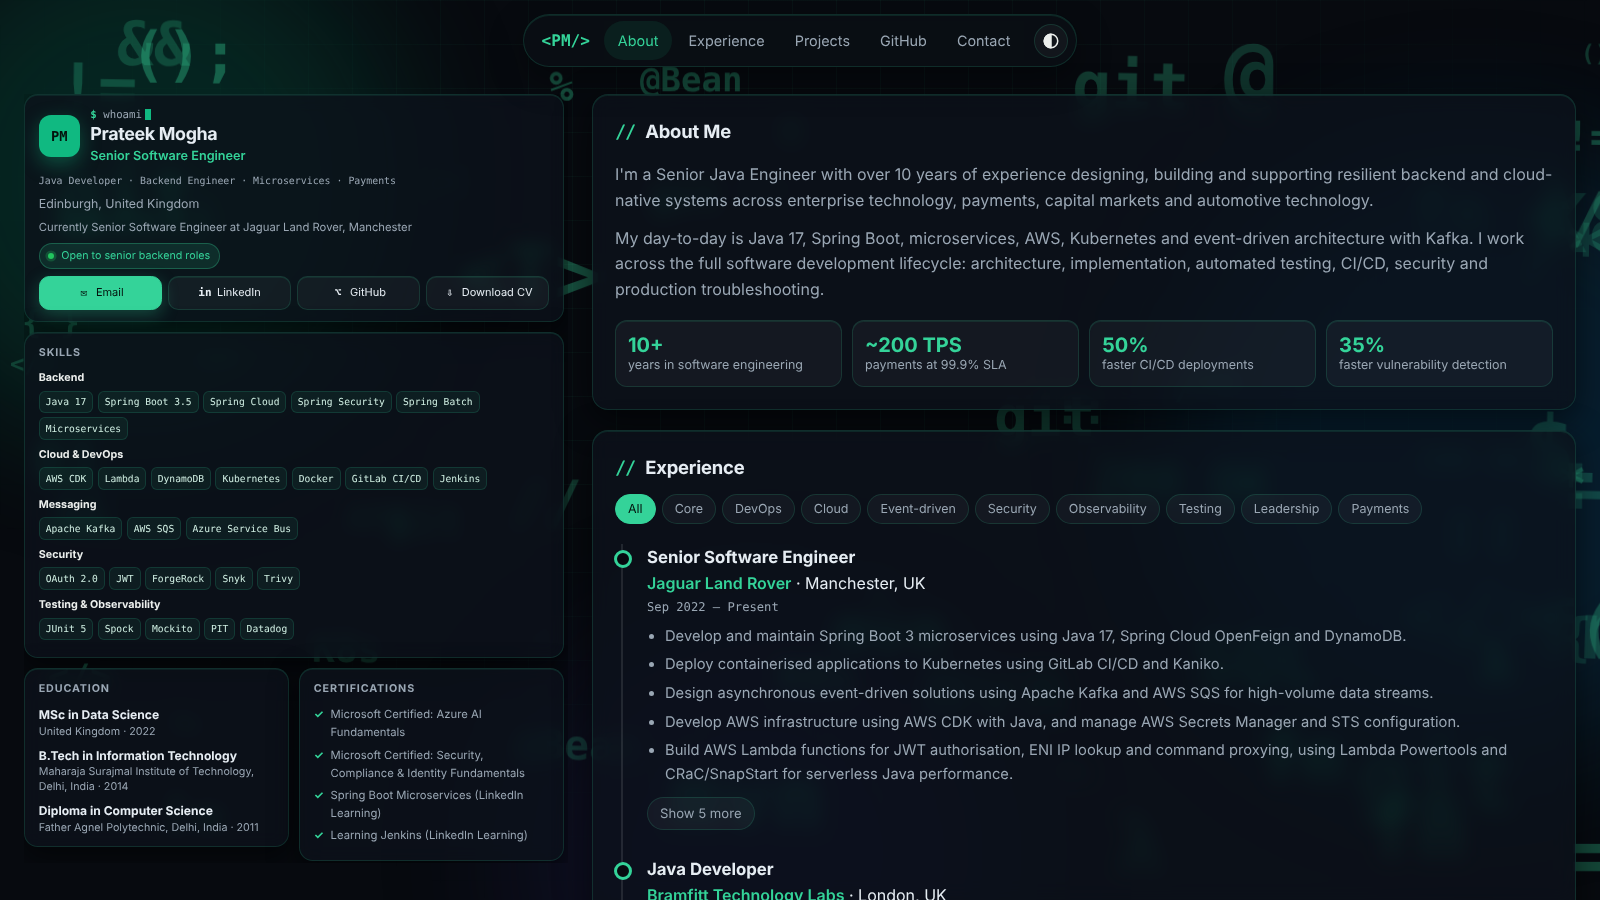
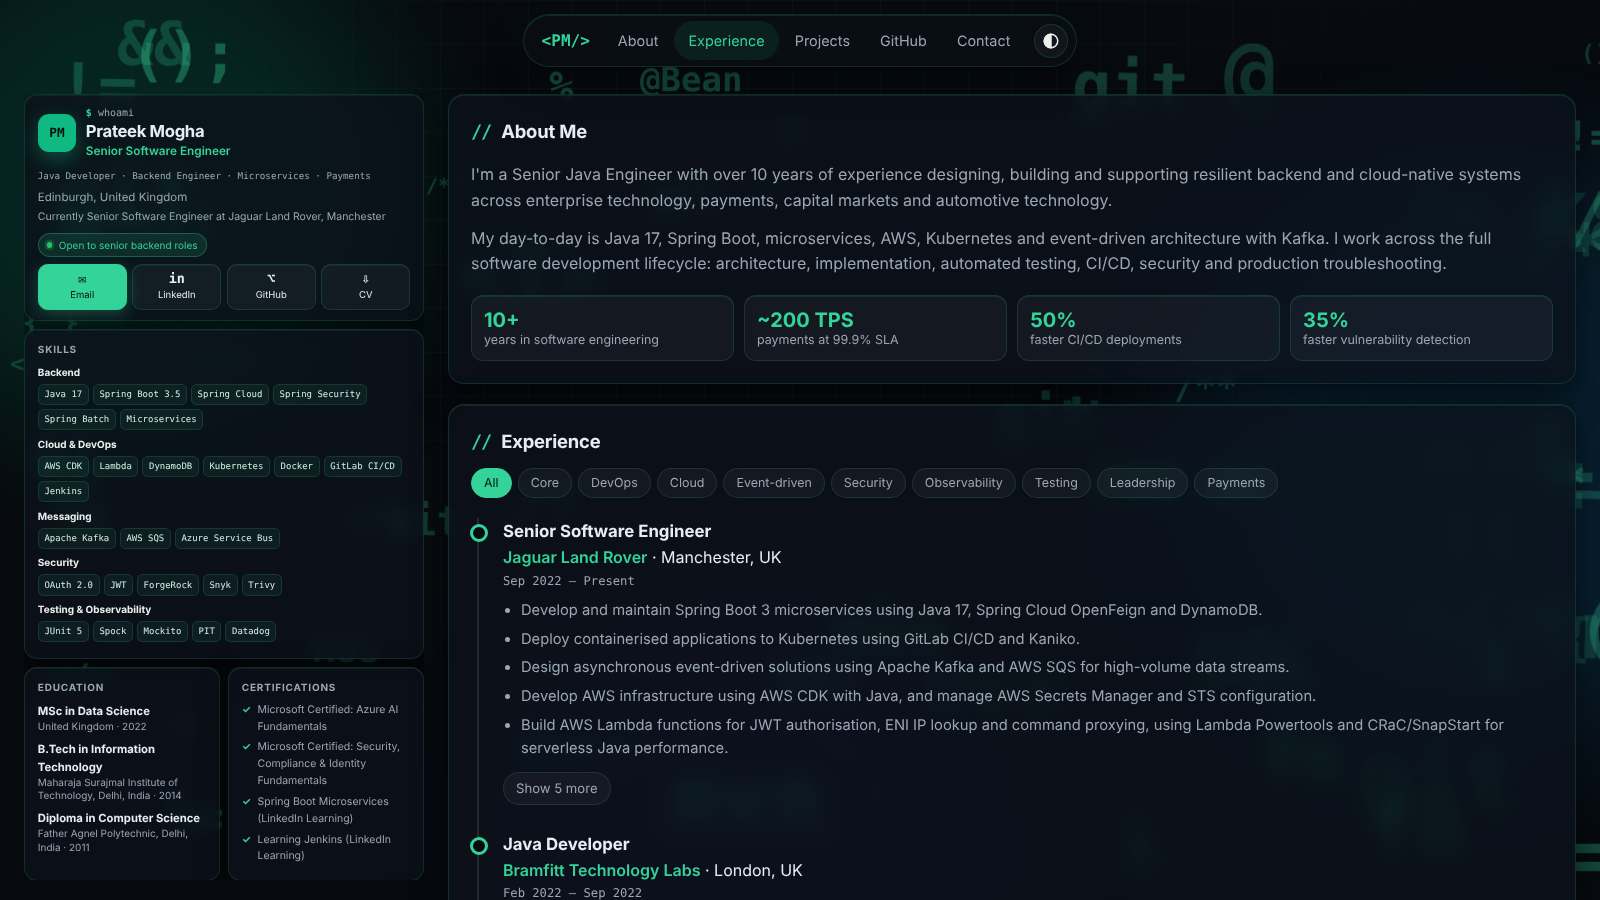
v1.7.1: fixed-fit sidebar, narrower layout, equal cards, Skills open on mobile

diff --git a/index.html b/index.html
@@ -438,12 +438,26 @@ footer{max-width:1680px}
 
 /* ===== WIDE SIDEBAR: intro, skills, then education | certifications ===== */
 @media(min-width:1101px){
-  .shell{max-width:1680px;grid-template-columns:clamp(520px,34vw,600px) minmax(0,1fr)}
-  .shell>.panel{display:grid;grid-template-columns:1fr 1fr;align-items:start;gap:12px;-webkit-mask-image:none;mask-image:none;padding-bottom:2px}
+  .shell{max-width:1680px;grid-template-columns:clamp(390px,25vw,440px) minmax(0,1fr)}
+  .shell>.panel{display:grid;grid-template-columns:1fr 1fr;align-items:start;gap:12px;-webkit-mask-image:none;mask-image:none;padding:0;overflow:hidden}
   .panel .intro,.panel .skills{grid-column:1/-1}
+  .shell>.panel .education,.shell>.panel .certs{align-self:stretch;min-width:0}
   .shell>.panel{gap:10px}.shell>.panel .card{padding:13px 16px}.panel .sg{margin-bottom:7px}.panel .cert{margin-bottom:5px}.panel .badge{margin-bottom:9px}.panel .cur{margin-bottom:8px}
   .panel .intro .links{grid-template-columns:repeat(4,minmax(0,1fr))}
   .panel .intro .links .pill{padding:8px 6px;gap:6px;font-size:.8rem;justify-content:center}
+}
+
+@media(min-width:1101px){
+  .shell>.panel .intro .links{gap:7px}
+  .shell>.panel .intro .links .pill{flex-direction:column;gap:3px;padding:8px 2px;min-height:54px;font-size:.74rem;white-space:nowrap}
+  .shell>.panel .intro .links .pill b{width:auto;font-size:1.05rem;line-height:1}
+  .shell>.panel .intro .links .pill .full{display:none}
+  .shell>.panel .intro .links .pill .short{display:inline}
+}
+@media(max-width:700px){
+  .skills h2{cursor:default;justify-content:flex-start;margin-bottom:12px}
+  .skills h2::after{display:none}
+  .skills:not(.open)>div{display:block}
 }
 /* browsers without backdrop-filter: fall back to near-solid cards */
 @supports not ((backdrop-filter:blur(1px)) or (-webkit-backdrop-filter:blur(1px))){
@@ -678,17 +692,16 @@ renderExperience();
 /* fit the fixed side panels to the screen height (desktop) */
 function fitPanels(){
   document.querySelectorAll(".panel").forEach(p => {
-    const cards = Array.from(p.children).filter(c => !c.hidden);
-    cards.forEach(c => c.style.zoom = "");
+    p.style.zoom = ""; p.style.width = ""; p.style.maxHeight = ""; p.style.top = "";
     if(window.innerWidth <= 1100) return;
-    let z = 1;
-    for(let i=0;i<3;i++){
-      const need = p.scrollHeight, avail = p.clientHeight;
-      if(need <= avail + 1) break;
-      z = Math.max(.86, z * (avail / need));
-      cards.forEach(c => c.style.zoom = z);
-      if(z <= .86) break;
-    }
+    const top = parseFloat(getComputedStyle(document.documentElement).getPropertyValue("--nav")) + 20 || 84;
+    const avail = window.innerHeight - top - 20;
+    const set = z => { p.style.zoom = z; p.style.top = (top/z) + "px"; p.style.maxHeight = (avail/z) + "px"; };
+    const fits = z => { set(z); return p.scrollHeight * z <= avail + 1; };
+    if(fits(1)) { p.style.zoom = ""; p.style.width = ""; p.style.top = ""; p.style.maxHeight = ""; return; }
+    let lo = .62, hi = 1;
+    for(let i=0;i<9;i++){ const m = (lo+hi)/2; if(fits(m)) lo = m; else hi = m; }
+    set(lo);
   });
 }
 let fitTimer; window.addEventListener("resize", () => { clearTimeout(fitTimer); fitTimer = setTimeout(fitPanels, 120); });

diff --git a/README.md b/README.md
@@ -5,6 +5,7 @@ Java 17, Spring Boot, microservices, AWS, Kubernetes and Kafka, with experience 
 
 **Live site:** https://moghaprateek.github.io
 **LinkedIn:** https://www.linkedin.com/in/moghaprateek/
+**Version:** 1.7.1 (see [CHANGELOG.md](CHANGELOG.md))
 
 ![Portfolio screenshot](docs/screenshot.png)
 
@@ -12,12 +13,12 @@ Java 17, Spring Boot, microservices, AWS, Kubernetes and Kafka, with experience 
 
 A single-page portfolio built with plain HTML, CSS and JavaScript. There is no framework and no build step, so it publishes straight from GitHub Pages.
 
-- Two-column dashboard layout that uses wide screens (up to 1680px): a fixed sidebar on the left (intro, skills, then education and certifications side by side) and the content on the right, which is the only part that scrolls. Projects and GitHub sit side by side on very wide screens.
+- Two-column dashboard layout that uses wide screens (up to 1680px): a fixed sidebar on the left (intro, skills, then education and certifications side by side) and the content on the right, which is the only part that scrolls. The sidebar scales to fit the screen height, so it never scrolls on its own. Projects and GitHub sit side by side on very wide screens.
 - Floating pill menu on desktop and an iOS-style bottom tab bar on phones.
 - Experience timeline with filter buttons by theme (Cloud, Security, Payments and so on) and a "Show more" toggle for long bullet lists.
 - Projects, GitHub projects, contact links and a CV download button.
 - Dark and light mode, remembered per visitor.
-- Responsive: the sidebar stacks above the content on tablets. On phones everything is a single column with a short intro card, a one-row filter, and collapsible Skills and Certifications.
+- Responsive: the sidebar stacks above the content on tablets. On phones everything is a single column with a short intro card, a one-row filter, Skills always open and Certifications collapsible.
 - Search and sharing support: page title and description, structured data, a social preview image, `robots.txt` and `sitemap.xml`.
 
 ## Files

diff --git a/CHANGELOG.md b/CHANGELOG.md
@@ -2,6 +2,13 @@
 
 All notable changes to this portfolio. Newest first. Versions follow `major.minor.patch`.
 
+## 1.7.1 - 2026-10-13
+- Left sidebar no longer scrolls: it scales to fit the screen height, so the intro, skills, education and certifications are always fully visible.
+- Sidebar is narrower, giving the content on the right more room.
+- Education and Certifications cards are the same width and height.
+- Intro buttons show the icon above the label on desktop as well as phone; the CV button reads "CV".
+- Phone: Skills is always open (no collapse). Certifications stays collapsible.
+
 ## 1.7.0 - 2026-10-13
 - Two-column layout: one wide fixed sidebar on the left (intro, skills, then education and certifications side by side). The content on the right is the only part that scrolls.
 - Mobile intro card: the four buttons (Email, LinkedIn, GitHub, CV) now sit in one row with the icon on top and the label underneath, so text no longer overlaps.
